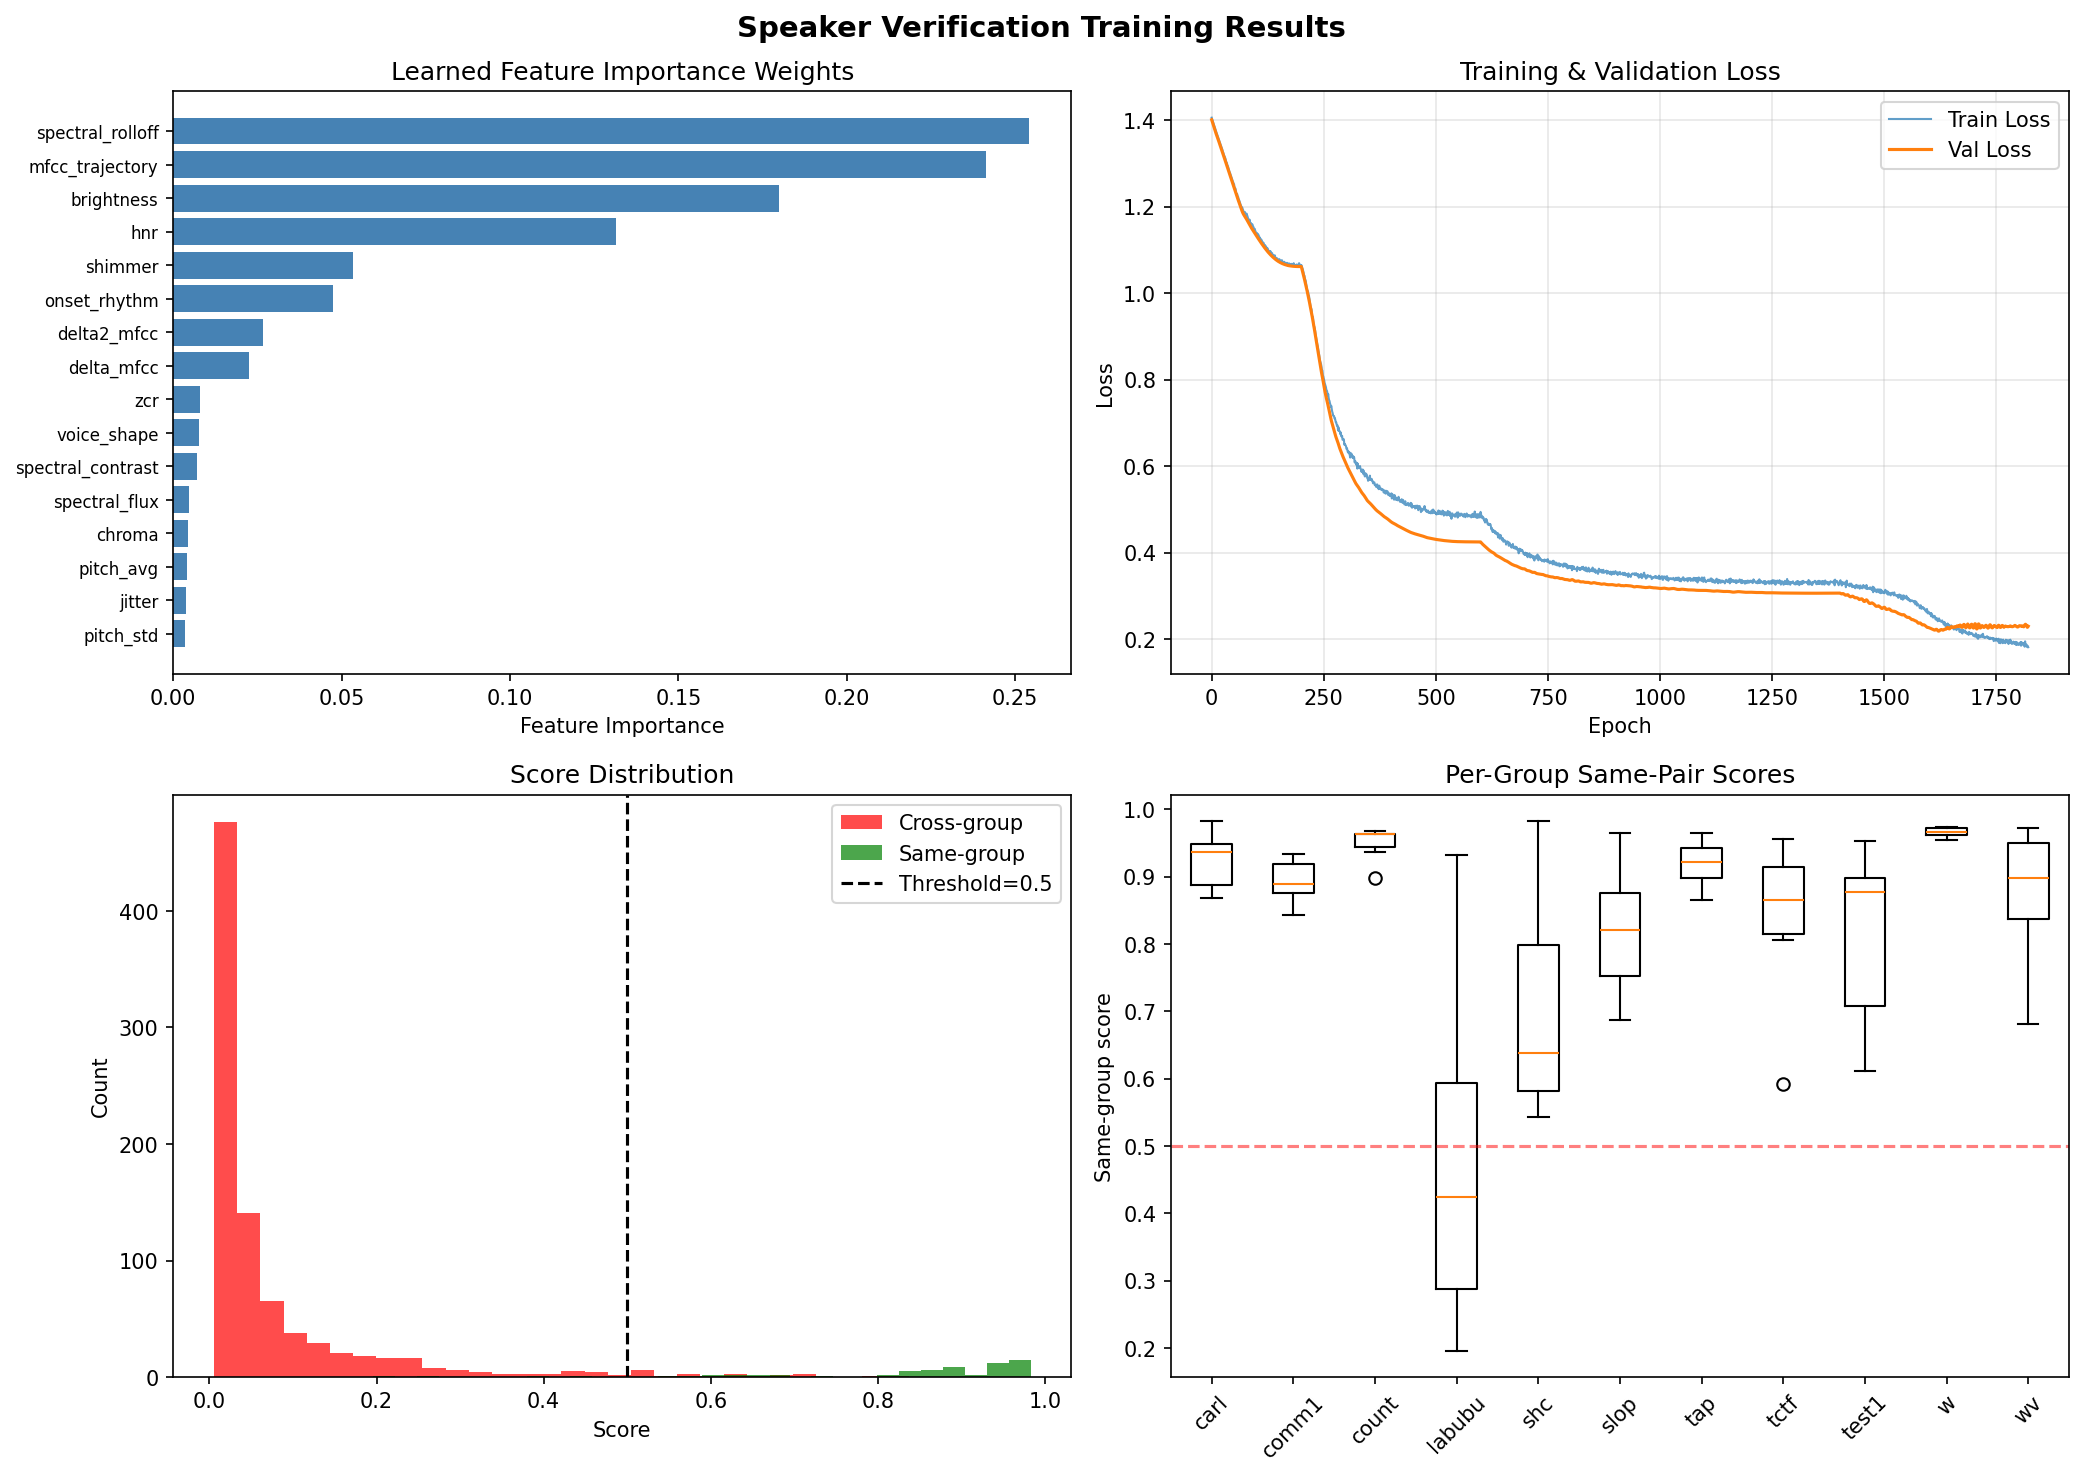
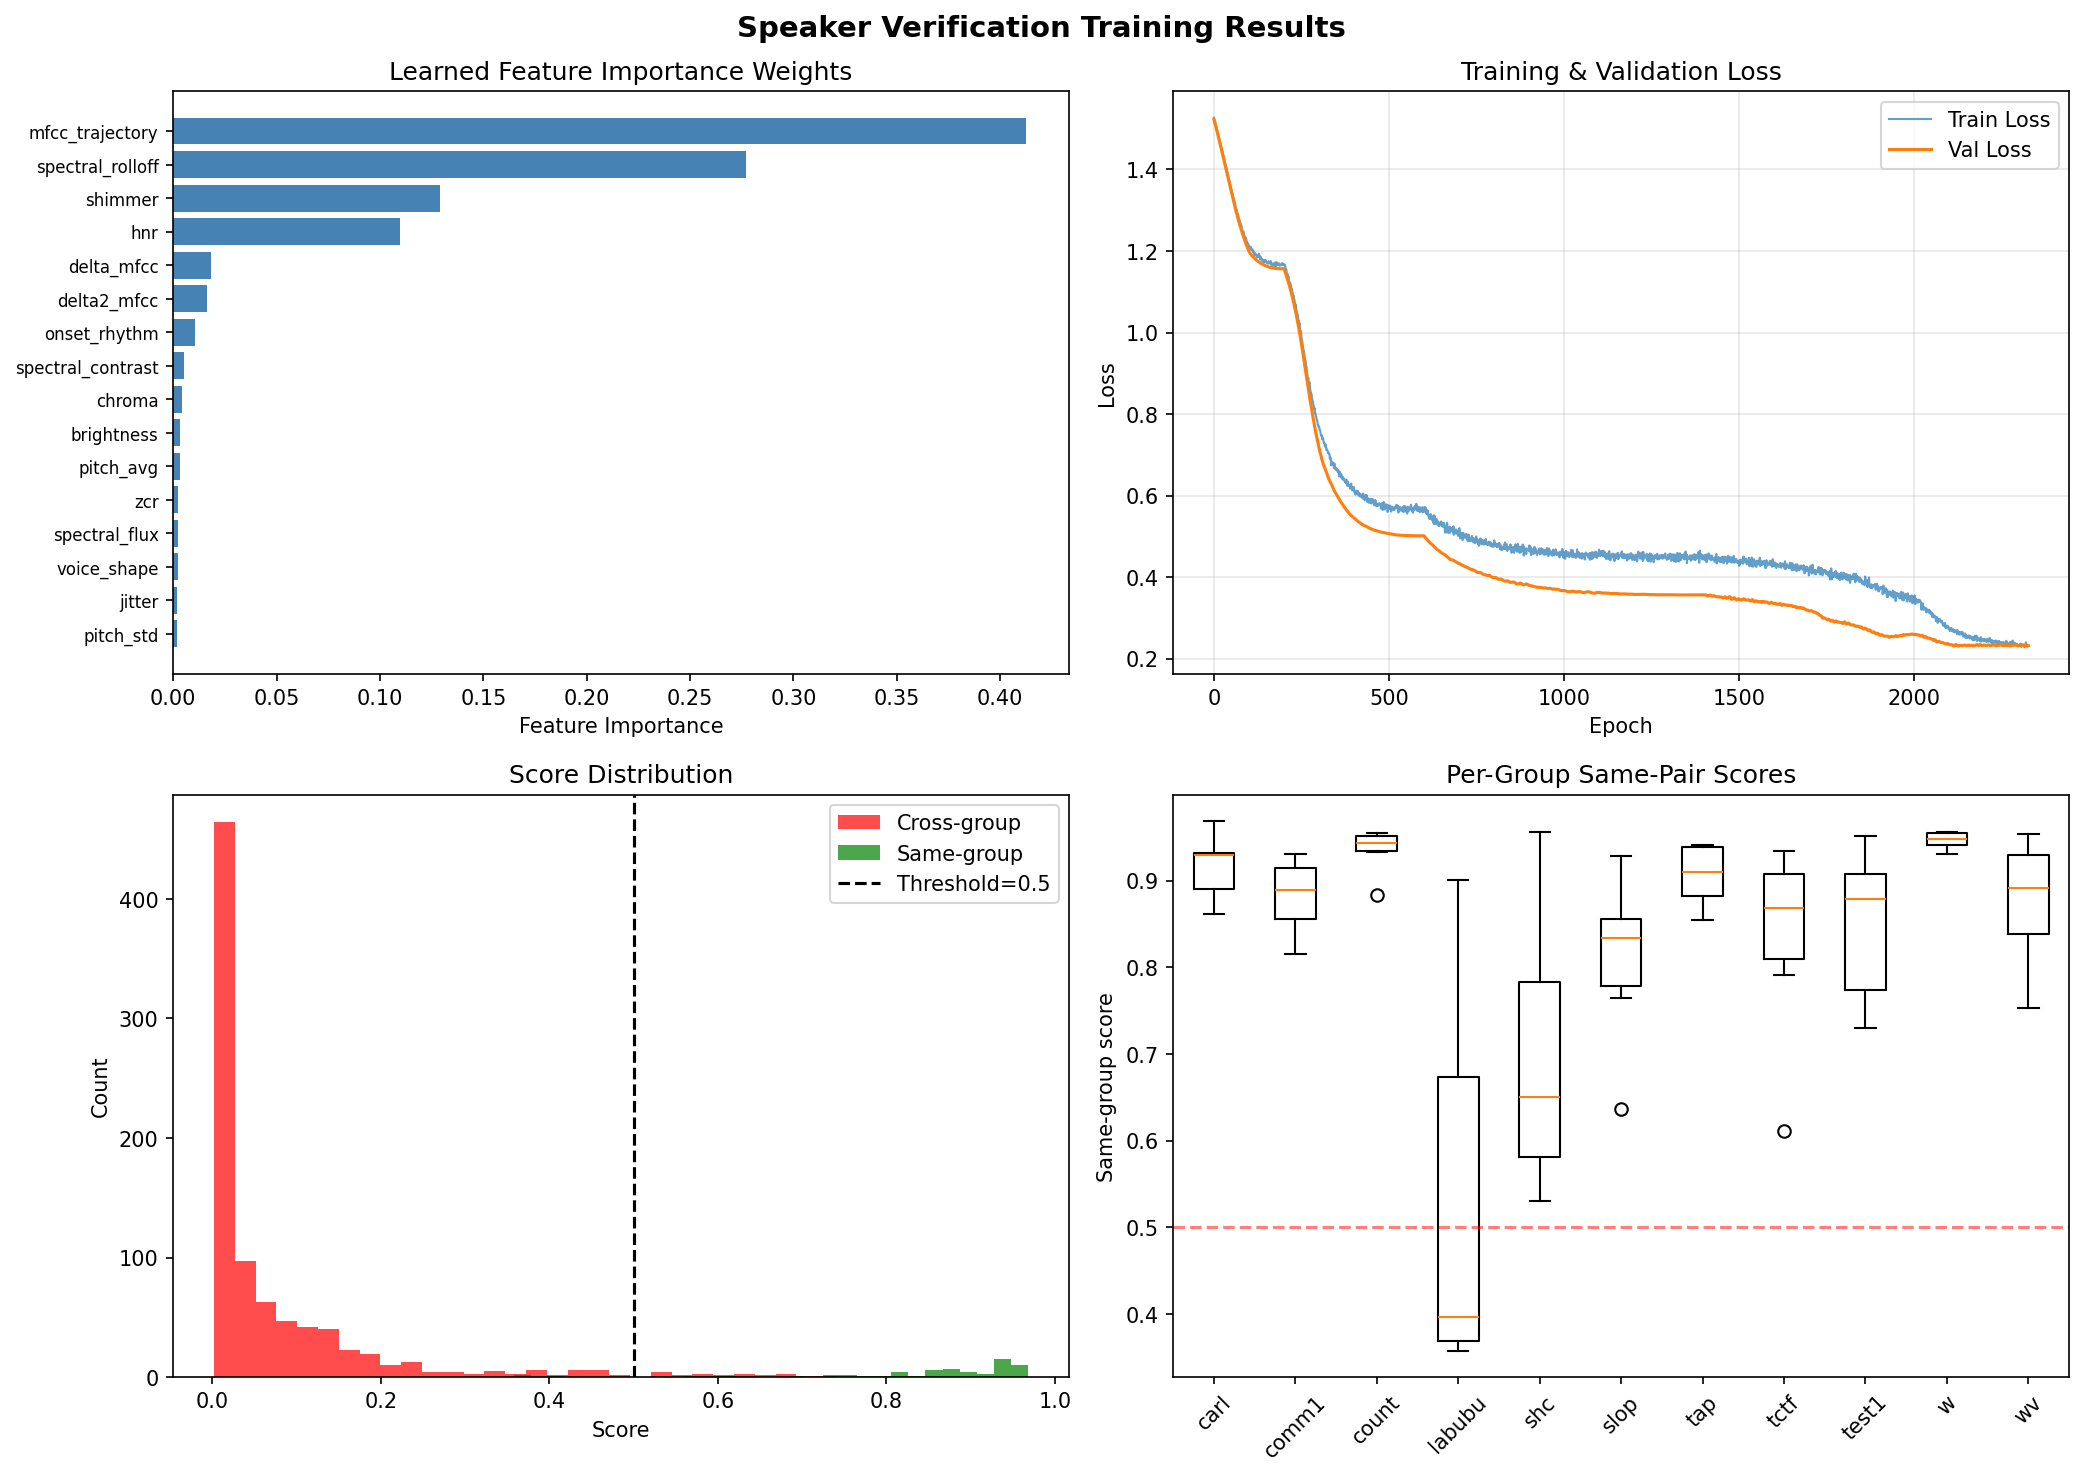
Updated paths

diff --git a/backend/train_weights.py b/backend/train_weights.py
@@ -152,7 +152,7 @@ def build_similarity_matrix(pairs, embeddings):
     return np.array(X, dtype=np.float32)
 
 
-def train(X_base, y_base, n_epochs=3000):
+def train(X_base, y_base, n_epochs=13000):
     """Train lean model for speaker verification. Returns trained model."""
     device = torch.device('cuda' if torch.cuda.is_available() else 'cpu')
     print(f"\nUsing device: {device}", flush=True)

diff --git a/backend/mfcc.py b/backend/mfcc.py
@@ -386,8 +386,10 @@ def build_embeddings(path, debug=False):
 
 
 def compare_files(path1, path2, debug=False):
-    path1 = f"../{path1}.wav"
-    path2 = f"../{path2}.wav"
+    if not os.path.isabs(path1):
+        path1 = f"../{path1}.wav"
+    if not os.path.isabs(path2):
+        path2 = f"../{path2}.wav"
 
     if debug:
         print(f"    Loading {os.path.basename(path1)}...", flush=True)
